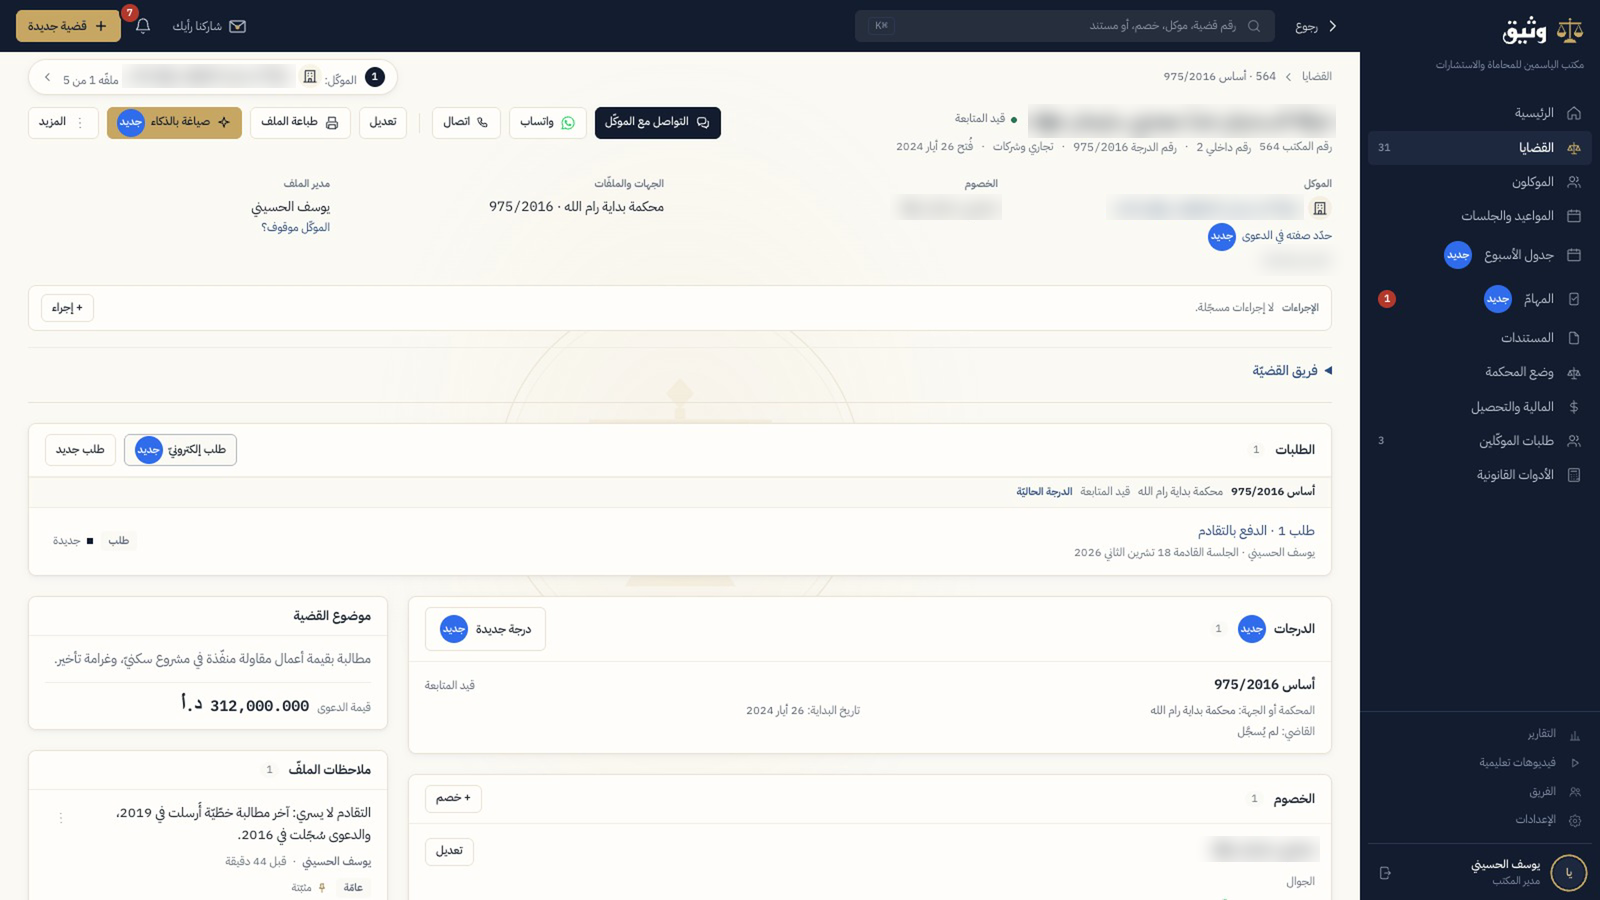
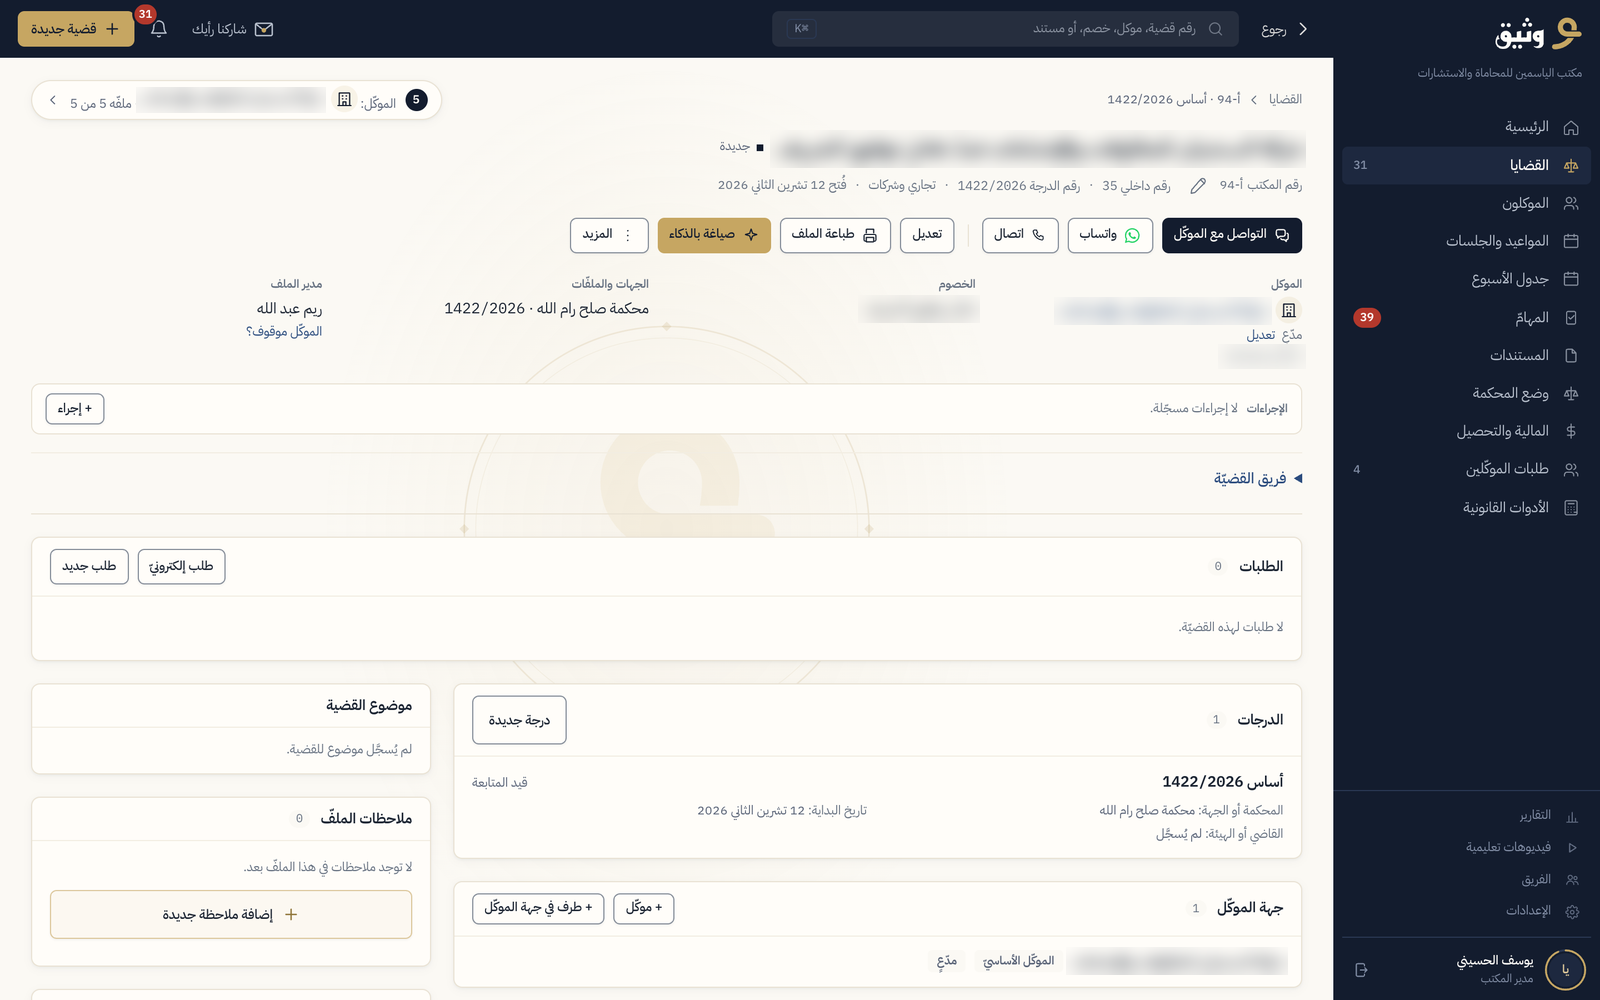
Screenshots from the current version
Six screens from the version of 25 November 2026 (new logo, dashboard,
finance and reports), with a fictional demo office. Party names, phone
and ID numbers are blurred.

diff --git a/README.md b/README.md
@@ -34,14 +34,16 @@ etwa 1,6 s auf 0,25 s (Faktor 6,6), bei nachweislich identischen Ergebnissen fü
 
 ## Screenshots
 
-*A fictional demo office on the test environment. Party names, phone and ID numbers are blurred anyway.*
+*The current version (25 November 2026) with a fictional demo office on the test environment. Party names, phone and ID numbers are blurred anyway.*
 
 | | |
 |---|---|
-| ![Case file](screenshots/case-file.png) | ![AI draft on the office letterhead](screenshots/ai-draft-letterhead.png) |
-| **Case file:** parties, court levels, requests and the team in one place. | **AI draft** from the office's own templates, on its letterhead. Missing facts stay as visible blanks and are listed on the left instead of being invented. |
-| ![Office dashboard](screenshots/office-dashboard.png) | ![Finance performance](screenshots/finance-performance.png) |
-| **Office dashboard:** workload per team member, collections in ₪ / JD / $, upcoming instalments. | **Finance:** fees, case expenses and office expenses per period and currency. |
+| ![Today](screenshots/dashboard.png) | ![Case file](screenshots/case-file.png) |
+| **Today:** the day's court sessions on a timeline, cases that need attention, sessions waiting for review. | **Case file:** parties, court and level, requests and team, with one-click WhatsApp, AI drafting and printing. |
+| ![Document on the office letterhead](screenshots/document-letterhead.png) | ![Templates and drafts](screenshots/templates.png) |
+| **Documents** from the office's own templates, on its letterhead, as Word and PDF. | **Templates and drafts:** ready templates, the office archive, and AI drafting. |
+| ![Finance](screenshots/finance.png) | ![Reports](screenshots/reports.png) |
+| **Finance:** money received, overdue instalments, client balances and money held in trust, in ₪ and JD. | **Reports:** the period summed up in plain sentences, with figures per currency. |
 
 ## The problem
 
@@ -130,7 +132,7 @@ Arabic typesetting. The same document has to come out the same in every output p
 
 - **Drafting (Claude API):** drafts start from the office's own templates and similar documents in its
   archive (semantic search inside the office's own data only). Facts the case file does not contain stay as
-  visible blanks and are listed for the lawyer (see the screenshot) instead of being guessed.
+  visible blanks and are listed for the lawyer instead of being guessed.
 - **OCR (Gemini API):** reads ID cards and court papers into structured fields.
 - **Points-based usage:** each AI action costs points, so usage and cost per office stay predictable.
 - When an AI call fails, the user gets the actual reason in Arabic, not a generic "something went wrong".
